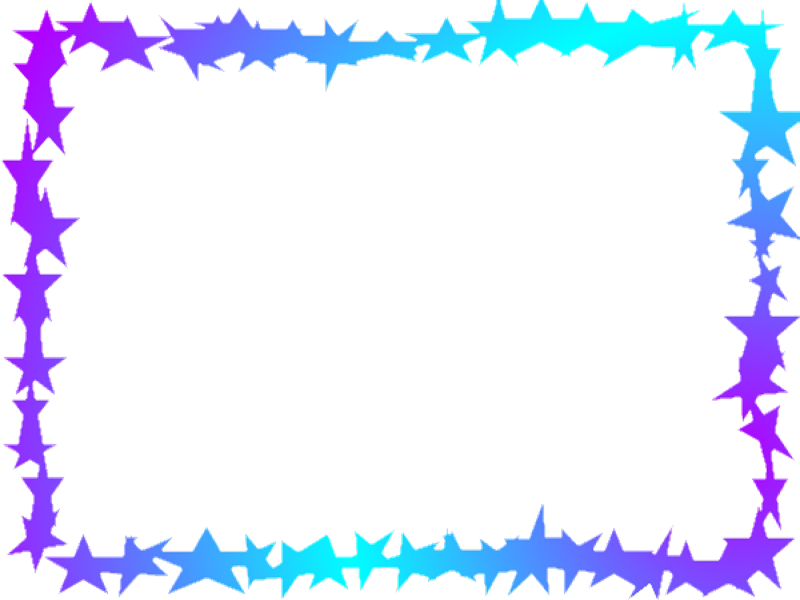
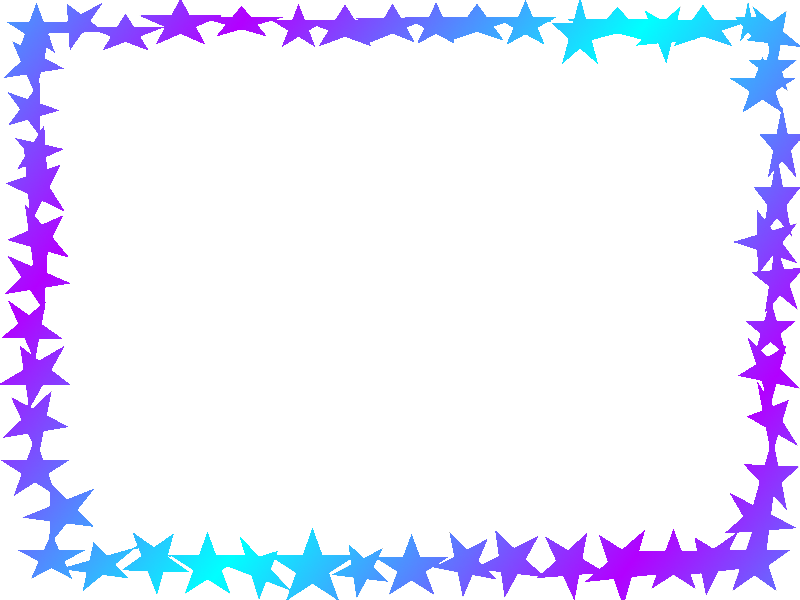
Refined Disk Spin and improved Background

Changed region(s): [[0.0, 0.0, 1.0, 1.0]]

diff --git a/GegeIzi/src/gegeizi/style.css b/GegeIzi/src/gegeizi/style.css
@@ -1,5 +1,5 @@
 .root{
-    -fx-background-image: url("Urf2.png");
+    -fx-background-image: url("Urf.png");
     -fx-background-repeat: stretch;   
     -fx-background-size: 800 600 ;
     -fx-background-position: center center;

diff --git a/GegeIzi/src/gegeizi/Main.java b/GegeIzi/src/gegeizi/Main.java
@@ -39,19 +39,7 @@ import javafx.stage.Stage;
 import javafx.util.Duration;
 import javax.net.ssl.HttpsURLConnection;
 
-/**
-Completable Future Sample
-* CompletableFuture<Summoner> F = CompletableFuture.supplyAsync(() ->{
-            current = getInfo(i);
-            return null;
-        });
-        F.whenComplete((ok,ex)->{
-            Platform.runLater(()->{
-                finished();
-                update();
-            });
-        });
- */
+
 
 /**
  * 
@@ -66,6 +54,7 @@ public class Main extends Application {
     boolean[] eventTypes;
     ImageView spinning;
     int songTempo;
+    long matchLength = 0;
     String eventFilter;
     
     
@@ -79,7 +68,7 @@ public class Main extends Application {
     
     public void initBoxes(){
         eventTypes = new boolean[numevents];
-        String[] eve = {"Champion Kill","Building Kill","Skill level-up","Item Purchased","Ward Placed","Item Destroyed","Elite Monster Kill"};
+        String[] eve = {"Champion Kill","Building Kill","Skill level-up","Item Purchased","Ward Placed","Item Destroyed","Dragon/Baron Kill"};
         
         for(int i=0;i<numevents;i++){
             CheckBox k = new CheckBox(eve[i]);
@@ -105,11 +94,14 @@ public class Main extends Application {
     }
     
     public void spinDisk(){
-            Timeline n = new Timeline();
-            n.setCycleCount(10);
-            n.setAutoReverse(false);
-            n.getKeyFrames().add(new KeyFrame(Duration.millis(2000),new KeyValue (spinning.rotateProperty(),360)));
-            n.playFromStart();
+        int cycle = 1000;
+        int ncycles = (int)matchLength * 10 / cycle;
+        Timeline n = new Timeline();
+        n.setCycleCount(ncycles);
+        n.setAutoReverse(false);
+        n.getKeyFrames().add(new KeyFrame(Duration.millis(cycle),new KeyValue (spinning.rotateProperty(),360)));
+        n.stop();
+        n.play();
     }
     
     @Override
@@ -160,7 +152,6 @@ public class Main extends Application {
             //Make sure you have a match loaded before using
             if(matchIds.size() > 0 && !isPlaying){
                 getMatch(pickMatches.getSelectionModel().getSelectedIndex());
-                spinDisk();
                 songPlaying.setProgress(-1);
             }
         });
@@ -194,6 +185,7 @@ public class Main extends Application {
 
         @Override
         public void run() {
+            spinDisk();
             isPlaying = true;
             songTempo = Integer.parseInt(inTempo.getText());
             //Get all events
@@ -275,13 +267,13 @@ public class Main extends Application {
     public void getMatchIds(){
         long epoch = 1428198000;
         epoch = epoch + (((int) (Math.random() * 10)) * 300);
-        System.out.println(epoch);
         getMatchIds(epoch);
         
     }
     
     //Called whenever a match is constructed from the api
     public void recievedMatch(Match match){
+        matchLength = match.getMatchDuration();
         System.out.println("Parsed Match");
         matches.add(match);
         callingAPI = false;

diff --git a/GegeIzi/src/gegeizi/Key.java b/GegeIzi/src/gegeizi/Key.java
@@ -55,8 +55,14 @@ public class Key extends Rectangle {
         this.setFill(min);
     }
     public void PlaySound(){
-        //tonePlayer = new MediaPlayer(tone);
-        if(tonePlayer.getStatus().equals(MediaPlayer.Status.PLAYING)){
+        tonePlayer = new MediaPlayer(tone);
+        this.setOpacity(0.6);
+        tonePlayer.setOnEndOfMedia(() -> {
+                this.setOpacity(1);
+        });
+        
+        tonePlayer.play();
+        /*if(tonePlayer.getStatus().equals(MediaPlayer.Status.PLAYING)){
             tonePlayer.seek(new Duration(0));
             this.setOpacity(0.4);
         }
@@ -66,7 +72,8 @@ public class Key extends Rectangle {
                 this.setOpacity(1);
 
             });
-            tonePlayer.play();
+            
         }
+         */
     }
 }
